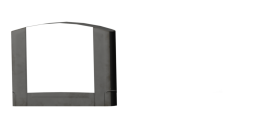
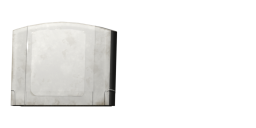
Menú: el ícono pasa al cartucho con el sticker de bordes redondeados
El segundo cartucho del modelo, con el sticker sin arte (su forma, el margen
y el relieve del borde, con plástico clonado adentro) y el plástico en su
gris claro. La etiqueta ya no se tiñe con un color por juego.

Changed region(s): [[0.0312, 0.1562, 0.4688, 0.8438]]

diff --git a/docs/THIRD_PARTY.md b/docs/THIRD_PARTY.md
@@ -166,4 +166,4 @@ y revisando los repositorios.
 |---|---|---|
 | `assets/ps3/ICON0.PNG` (320×176): logo de Salsa64 (chile low-poly de 8 segmentos y «SALSA64») | Aportado por el autor el 2026-10-10; escalado con `sips` | Del proyecto. Sin marcas de Nintendo ni de Sony |
 | `assets/ps3/PIC1.PNG` (1920×1080): fondo del XMB (chile brillante, cintas de luz, sin texto) | Aportado por el autor el 2026-10-10; escalado y recortado a 16:9 con `sips` | Del proyecto. Sin marcas de Nintendo ni de Sony |
-| `assets/menu/cartucho.png` (256×128): ícono del cartucho de la lista de juegos, el plástico y la etiqueta en blanco (el menú la tiñe) | Render propio del modelo «Stylized N64» de AlessandroFortuna (Sketchfab), modificado: sin el arte ni los logotipos de Nintendo de sus texturas (emblema, texto en relieve, etiquetas de juegos), el cartucho solo, iluminado y reducido con Blender | CC BY 4.0 (https://creativecommons.org/licenses/by/4.0/): se acredita al autor del modelo en el README y aquí. Las etiquetas originales del modelo no se usan |
+| `assets/menu/cartucho.png` (256×128): ícono del cartucho de la lista de juegos (a la izquierda; la mitad derecha queda vacía) | Render propio del segundo cartucho del modelo «Stylized N64» de AlessandroFortuna (Sketchfab), modificado: sin el arte ni los logotipos de Nintendo de sus texturas (emblema, texto en relieve, etiquetas de juegos; el sticker conserva su forma y lleva plástico clonado de la cara de atrás), el cartucho solo, iluminado y reducido con Blender | CC BY 4.0 (https://creativecommons.org/licenses/by/4.0/): se acredita al autor del modelo en el README y aquí. Las etiquetas originales del modelo no se usan |
